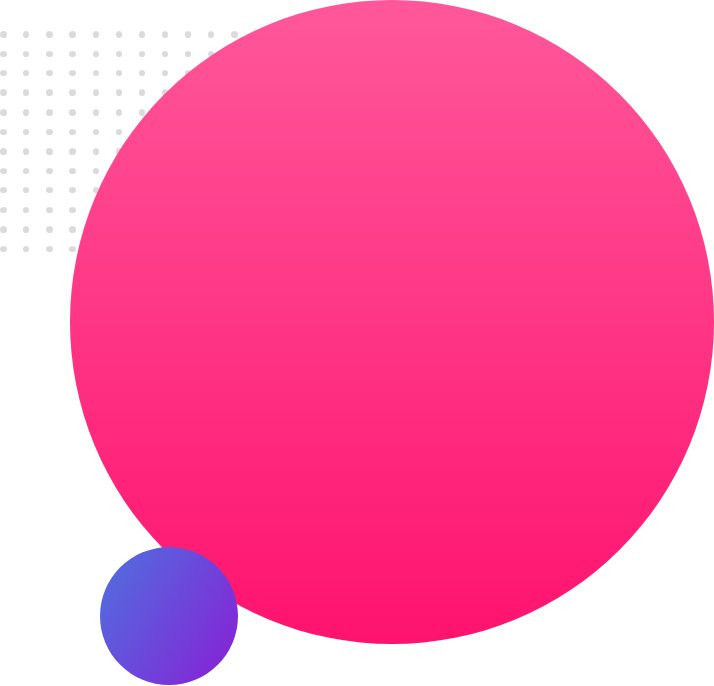
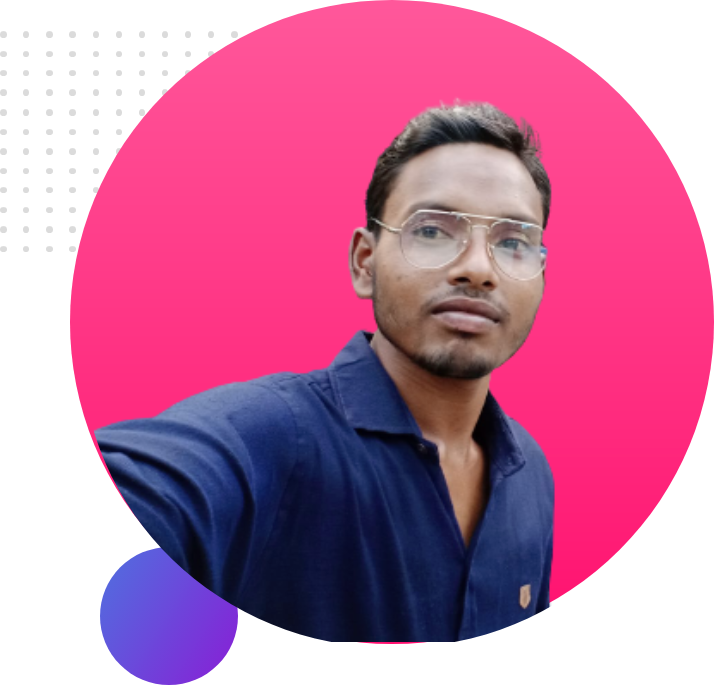
dream added

Changed region(s): [[0.1232, 0.1224, 0.8011, 0.949]]

diff --git a/index.html b/index.html
@@ -24,5 +24,19 @@
     <img src="photo/fast (2).png" alt="wasim akram">
 </div>
 </section>
+    <section class="dream-big">
+    <div class="half-width">
+       <img src="photo/fast (4).png" alt="akram">
+    </div>
+    <div class="half-width">
+        <h1>Dream Big </h1>
+        <h2>Become a Web Developer</h2>
+        <p>I am a professional web designer, web developer. I can build/recreate your website modern and professionally. I have more than 10+ Years of experience in web designing and development. i am available full time here in Fiverr. 
+
+        </p>
+        <a class="link-button" target="_blank" href="">DOWNLOAD RESUME</a>
+    </div>
+
+    </section>
 </body>
 </html>

diff --git a/style.css b/style.css
@@ -11,6 +11,7 @@ h1{
 }
 section{
     display: flex;
+    margin-bottom: 100px;
 }
 .half-width{
     width: 50%;
@@ -30,4 +31,9 @@ section{
 .top-banner{
     background-image: url(photo/fast\ \(5\).png);
     background-repeat: no-repeat;
+}
+.dream-big{
+    background-image: url(photo/wasim.png);
+    background-repeat: no-repeat;
+    background-position: right;
 }
